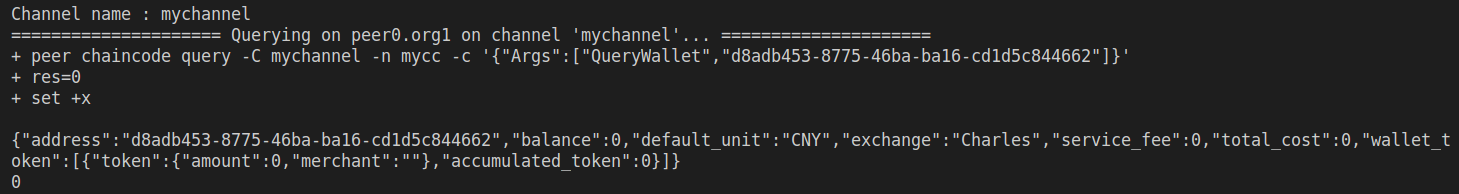
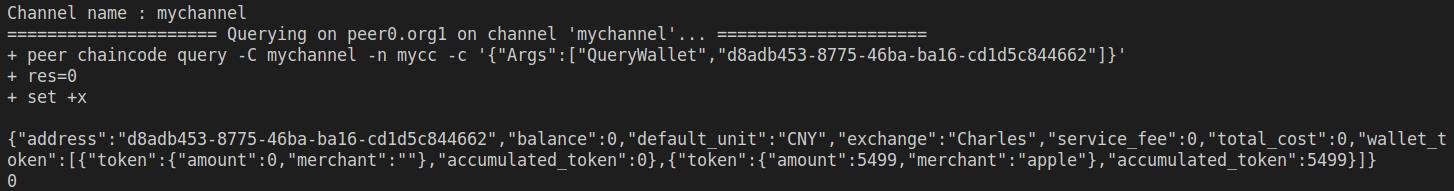
add

diff --git a/README.md b/README.md
@@ -9,11 +9,11 @@
 ![初始化](./初始化账本.png)
 * 钱包创建结果：
 ![创建钱包](./创建钱包.png)
+* 获取积分(代币)结果：
+![获取积分代币](./获取积分代币.png)
+* 查询钱包结果：
+![查询钱包1](./查询钱包1.png)
+![查询钱包2](./查询钱包2.png)
 * 删除钱包结果：
 ![删除钱包](./删除钱包.png)
 ![删除钱包后查询](./删除钱包后查询.png)
-* 查询钱包结果：
-![查询钱包](./查询钱包.jpg)
-![查询钱包2](./查询钱包2.png)
-* 获取积分(代币)结果：
-![获取积分代币](./获取积分代币.png)
